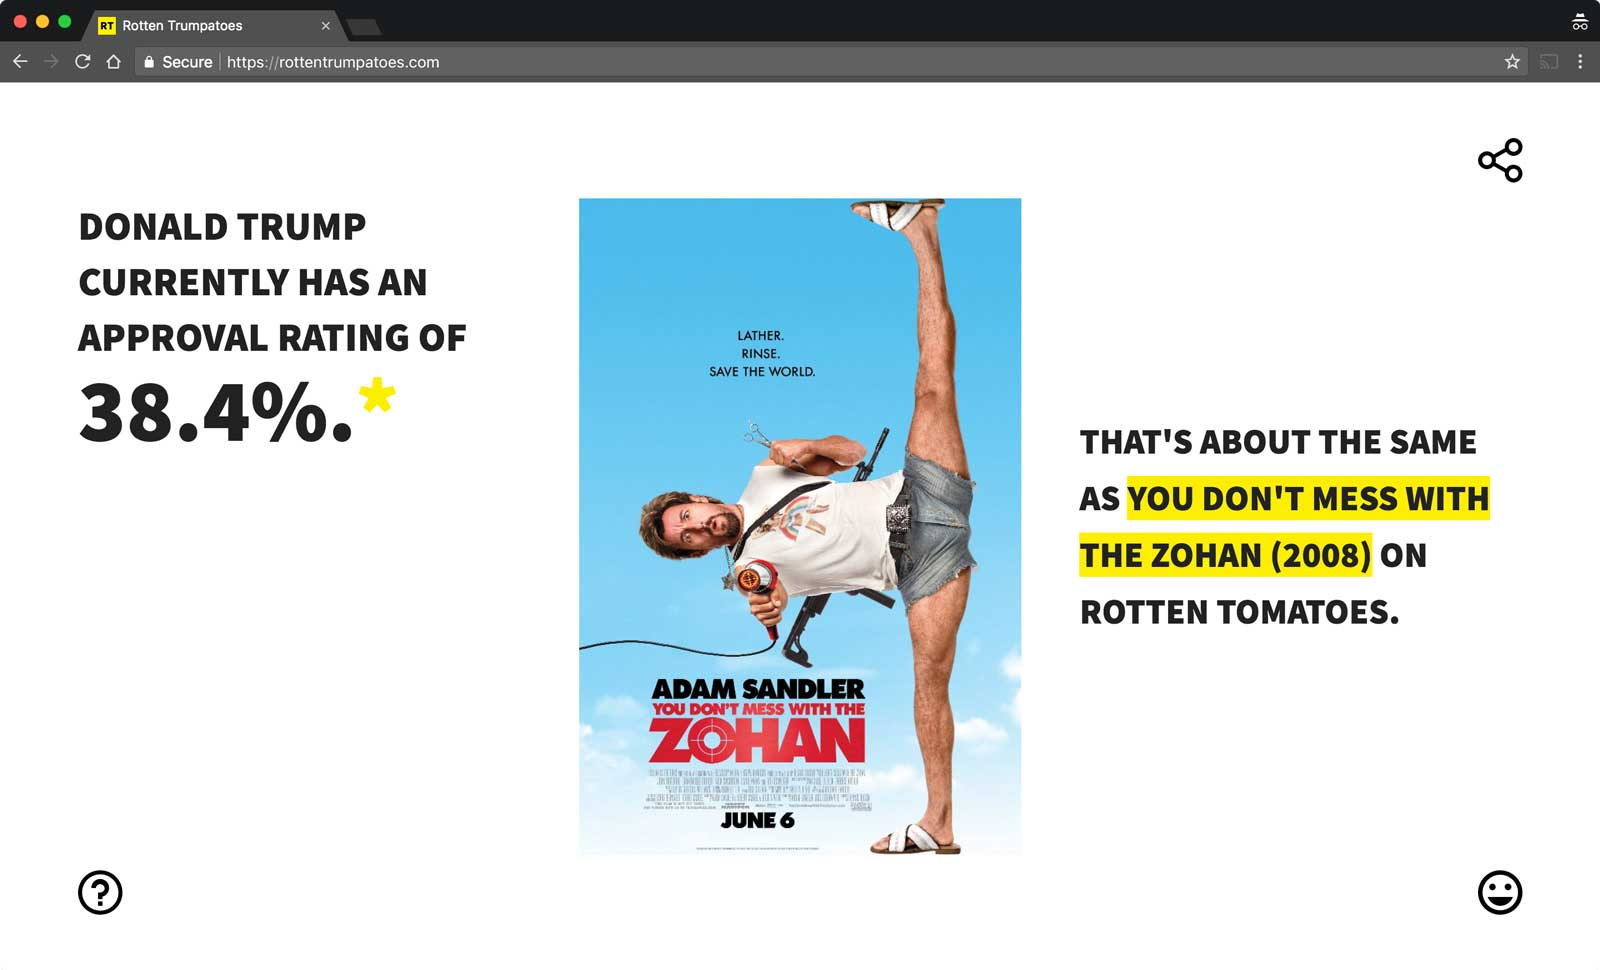
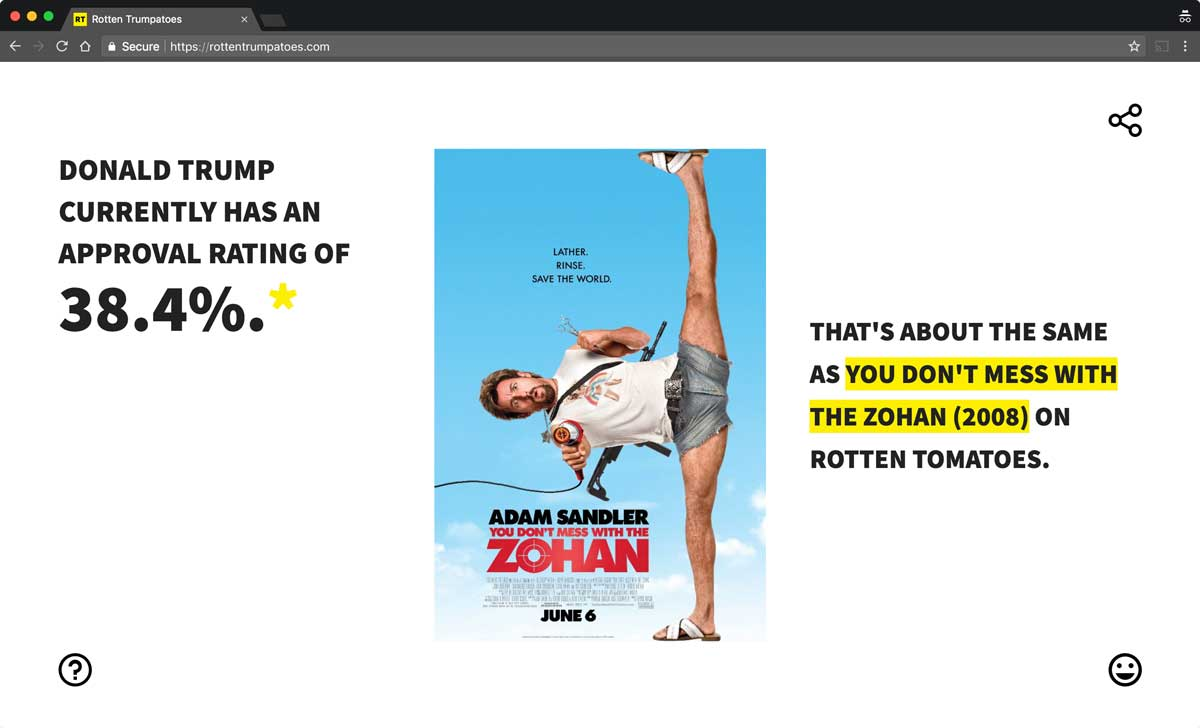
Zoom swap rottentrumpatoes

diff --git a/src/pages/projects/personal/rotten-trumpatoes/index.md b/src/pages/projects/personal/rotten-trumpatoes/index.md
@@ -18,8 +18,13 @@ Like all great ideas, it started with a tweet.
 In an era where everything is rated, from movies to restaurants to <a href="https://thewirecutter.com/reviews/best-fidget-spinners/" target="_blank">fidget spinners</a>, there was something really amusing about comparing apples and oranges, as it were: this brunch spot is about as popular as that pair of headphones; this album is about as popular as that Airbnb host, etc. So, I set out to find a movie that is doing about as well as the president.
 
 <div class="blog-inset">
-<img src="index.jpg" alt="Rotten Trumpatoes" title="Rotten Trumpatoes" data-action="zoom"/>
+  <hidden>
+    <img src='index.jpg' />
+    <img src='index-zoom.jpg' />
+  </hidden>
+  <zoom-image src='index.jpg' zoomSrc='index-zoom.jpg' alt='Rotten Trumpatoes'></zoom-image>
 </div>
+
 </section>
 
 <section class="blog-section">
@@ -40,13 +45,21 @@ While FiveThirtyEight gives a rating to the tenth (e.g. 38.7%), RT deals in inte
 While not publicly accessible, I created a way to manage movies in the DB which allowed me to remove movies from consideration, as well as merely to examine the huge list of movies I created. I decided to remove some movies from the DB that were either unknown, in poor taste, or just weren't funny. Since my database was a huge JSON file, it was nearly impossible to view in a text editor, but viewing the top results via this interface turned out to be very useful.
 
 <div class="blog-inset">
-<img src="movies.jpg" alt="Movies Interface" title="Movies Interface" data-action="zoom"/>
+  <hidden>
+    <img src='movies.jpg' />
+    <img src='movies-zoom.jpg' />
+  </hidden>
+  <zoom-image src='movies.jpg' zoomSrc='movies-zoom.jpg' alt='Movies Interface'></zoom-image>
 </div>
 
 I also made an interface for scraping, which allows you to specify the specific pages of the TMDb `/discover` endpoint to scrape (useful if the app crashes, which of course it never did). Using `socket.io` I streamed the server results in realtime to the client, so that you can follow along and see progress as the scraper runs, which is helpful as I let it run over the course of 10+ hours.
 
 <div class="blog-inset">
-<img src="scrape.jpg" alt="Scraping Interface" title="Scraping Interface" data-action="zoom"/>
+  <hidden>
+    <img src='scrape.jpg' />
+    <img src='scrape-zoom.jpg' />
+  </hidden>
+  <zoom-image src='scrape.jpg' zoomSrc='scrape-zoom.jpg' alt='Scraping Interface'></zoom-image>
 </div>
 
 I learned a lot working on this project. I combined several disparate API's (at least 4, by my count), as well as brushed up my scraping skills (most of it done with Google's newish <a href="https://github.com/GoogleChrome/puppeteer" target="_blank">Puppeteer</a>, which turned out to be a blast to use). After more than a month of working evenings and weekends, I launched the site (via tweet, of course), which, to my surprise, was retweeted by PJ, the originator of the initial idea.
